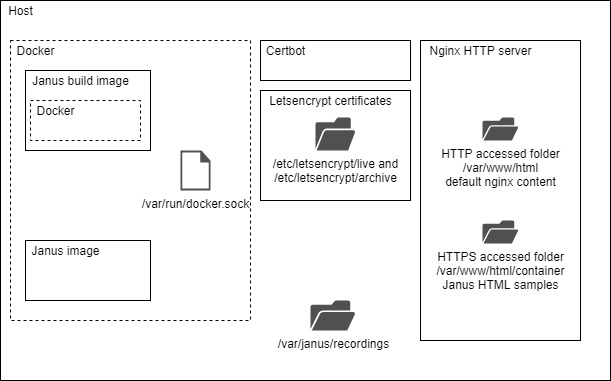
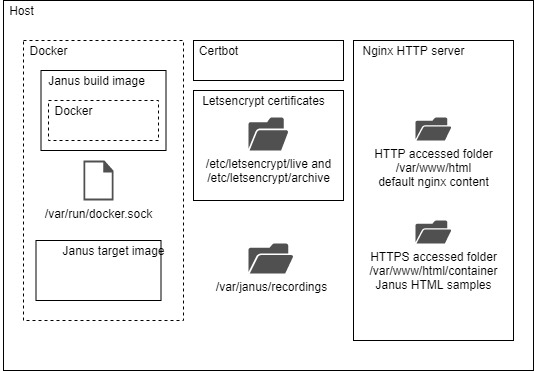
Updating setup instructions

Changed region(s): [[0.0, 0.0, 0.9588, 1.0], [0.9888, 0.0, 1.0, 1.0]]

diff --git a/README.md b/README.md
@@ -9,10 +9,14 @@ This process requires the setup of a Docker host that purpose is to store the bu
 ## Host setup
 The figure below depicts the host configuration.
 ![Host setup](doc/setup.jpg)
+
 The host contains the following componets:
 * Docker engine for executing the build and target images.
 * Nginx HTTP server for allowing Certbot automatic Letsencrypt certificates update and for serving the Janus HTML samples
-* Cetbot 
+* Cetbot certificate renewal service
+
+The Janus target image mounts the following host folders:
+* /var/www/
 
 
 
